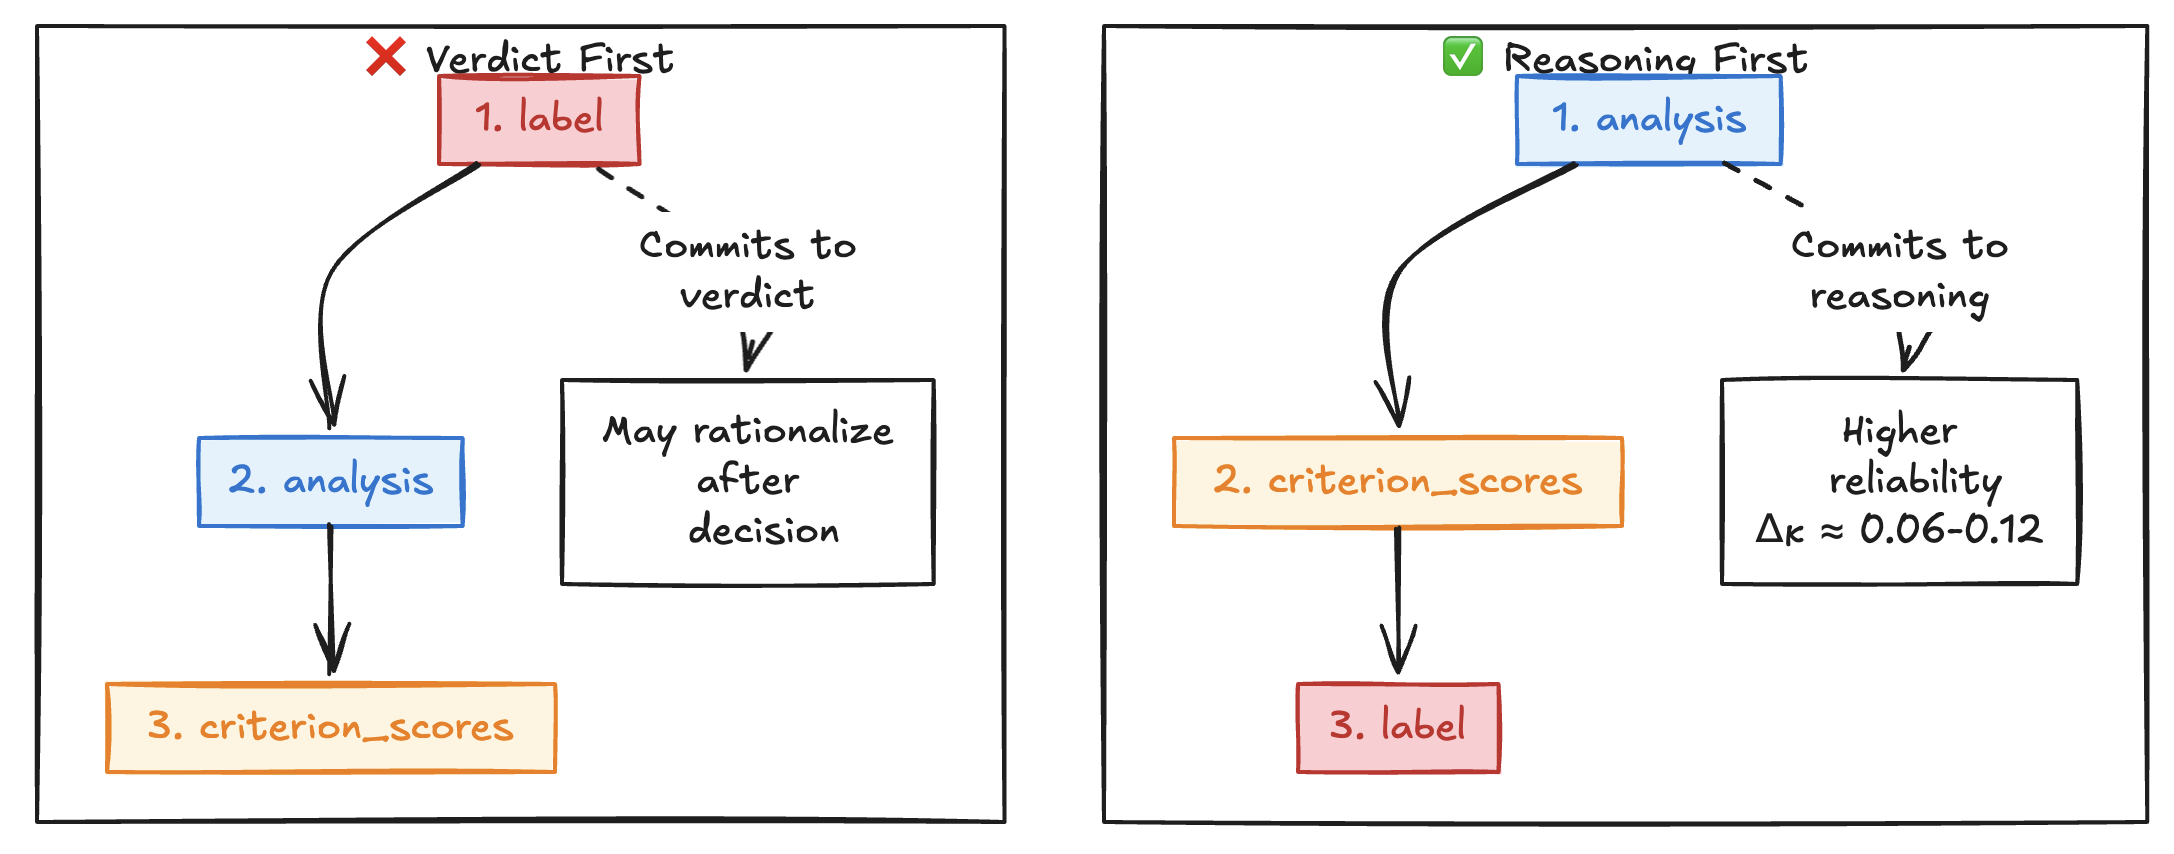
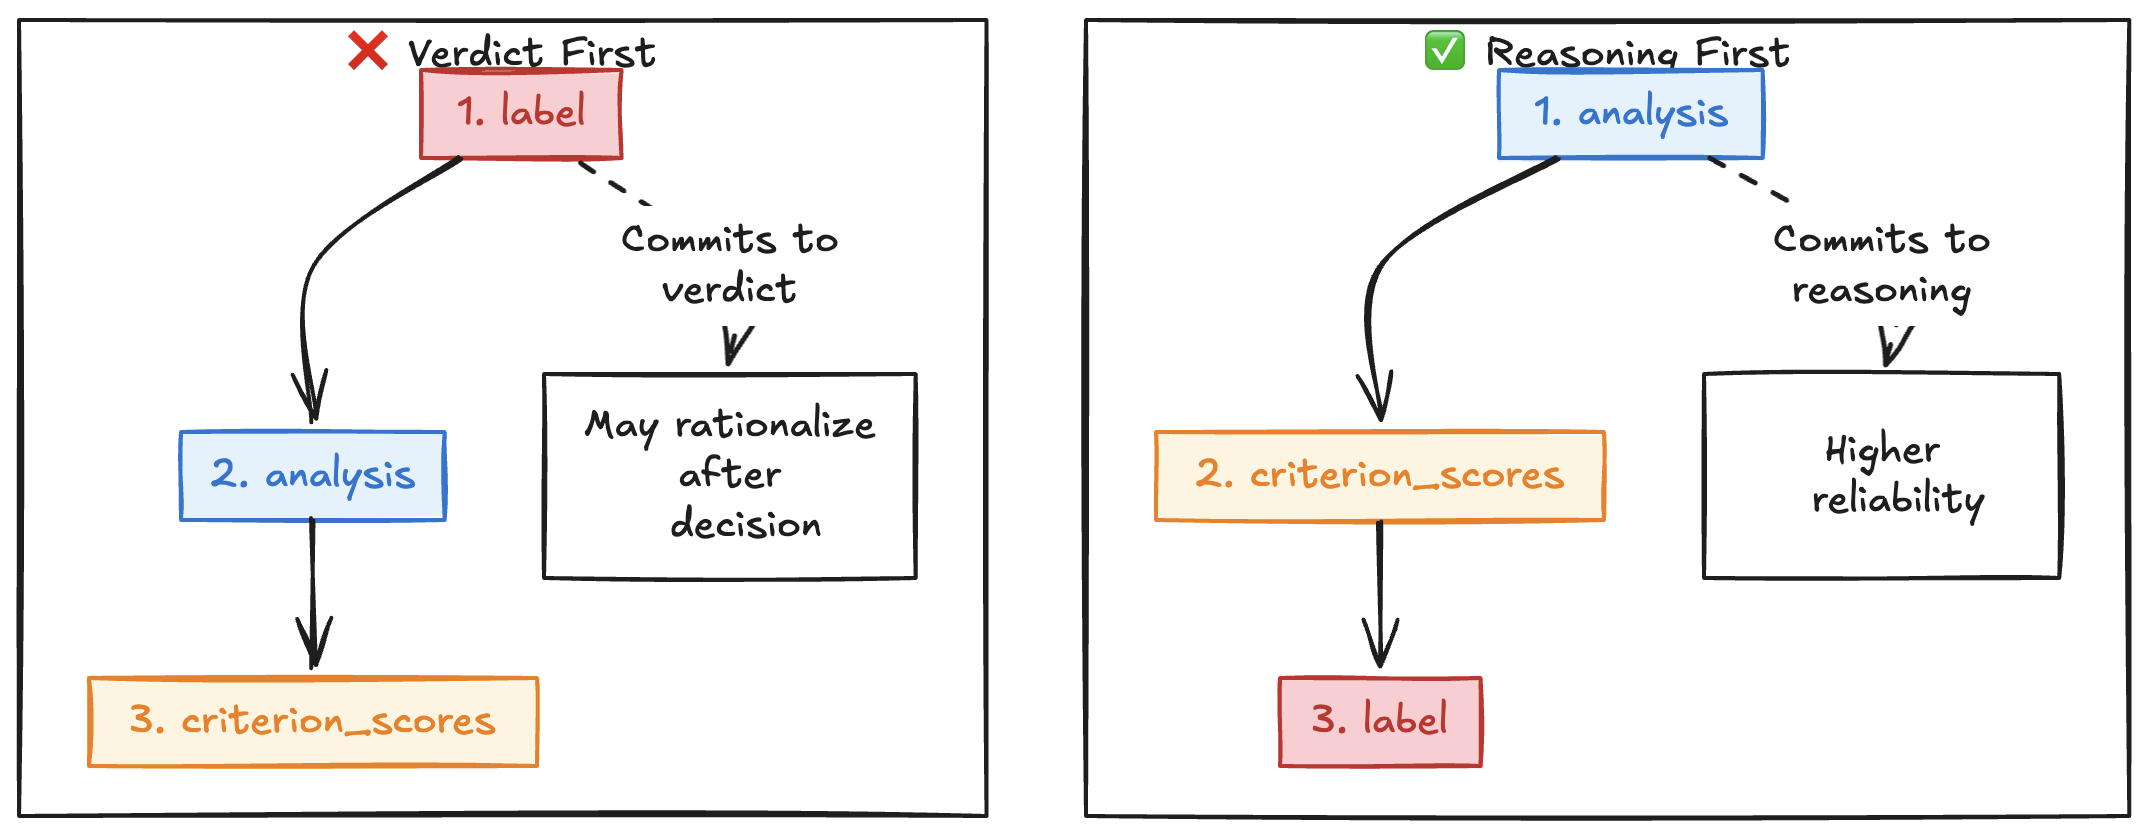
Add reverse JSON mode figure and update structured output schema
Update LLM-as-a-Judge post with new reverse JSON mode visualization
and improved structured output schema diagram. Remove field-order-results.png.

🤖 Generated with [Claude Code](https://claude.com/claude-code)

diff --git a/content/posts/llm-as-judge.md b/content/posts/llm-as-judge.md
@@ -130,7 +130,7 @@ Here's what that looks like in practice:
 
 When you place reasoning fields before conclusion fields (like `{"reasoning": ..., "answer": ...}` instead of `{"answer": ..., "reasoning": ...}`), you force the model to generate its analysis tokens first, then commit to a verdict. 
 
-![Field order comparison showing GPT-4o performance with reasoning-first vs answer-first schemas](/llm-judge/field-order-results.png)
+![Field order comparison showing GPT-4o performance with reasoning-first vs answer-first schemas](/llm-judge/reverse_json_mode.png)
 *Source: [Order of fields in Structured output can hurt LLMs output](https://www.dsdev.in/order-of-fields-in-structured-output-can-hurt-llms-output)*
 
 This isn't about "chain-of-thought prompting." It's about building an auditable system where the generation process itself enforces reasoning before judgment.
